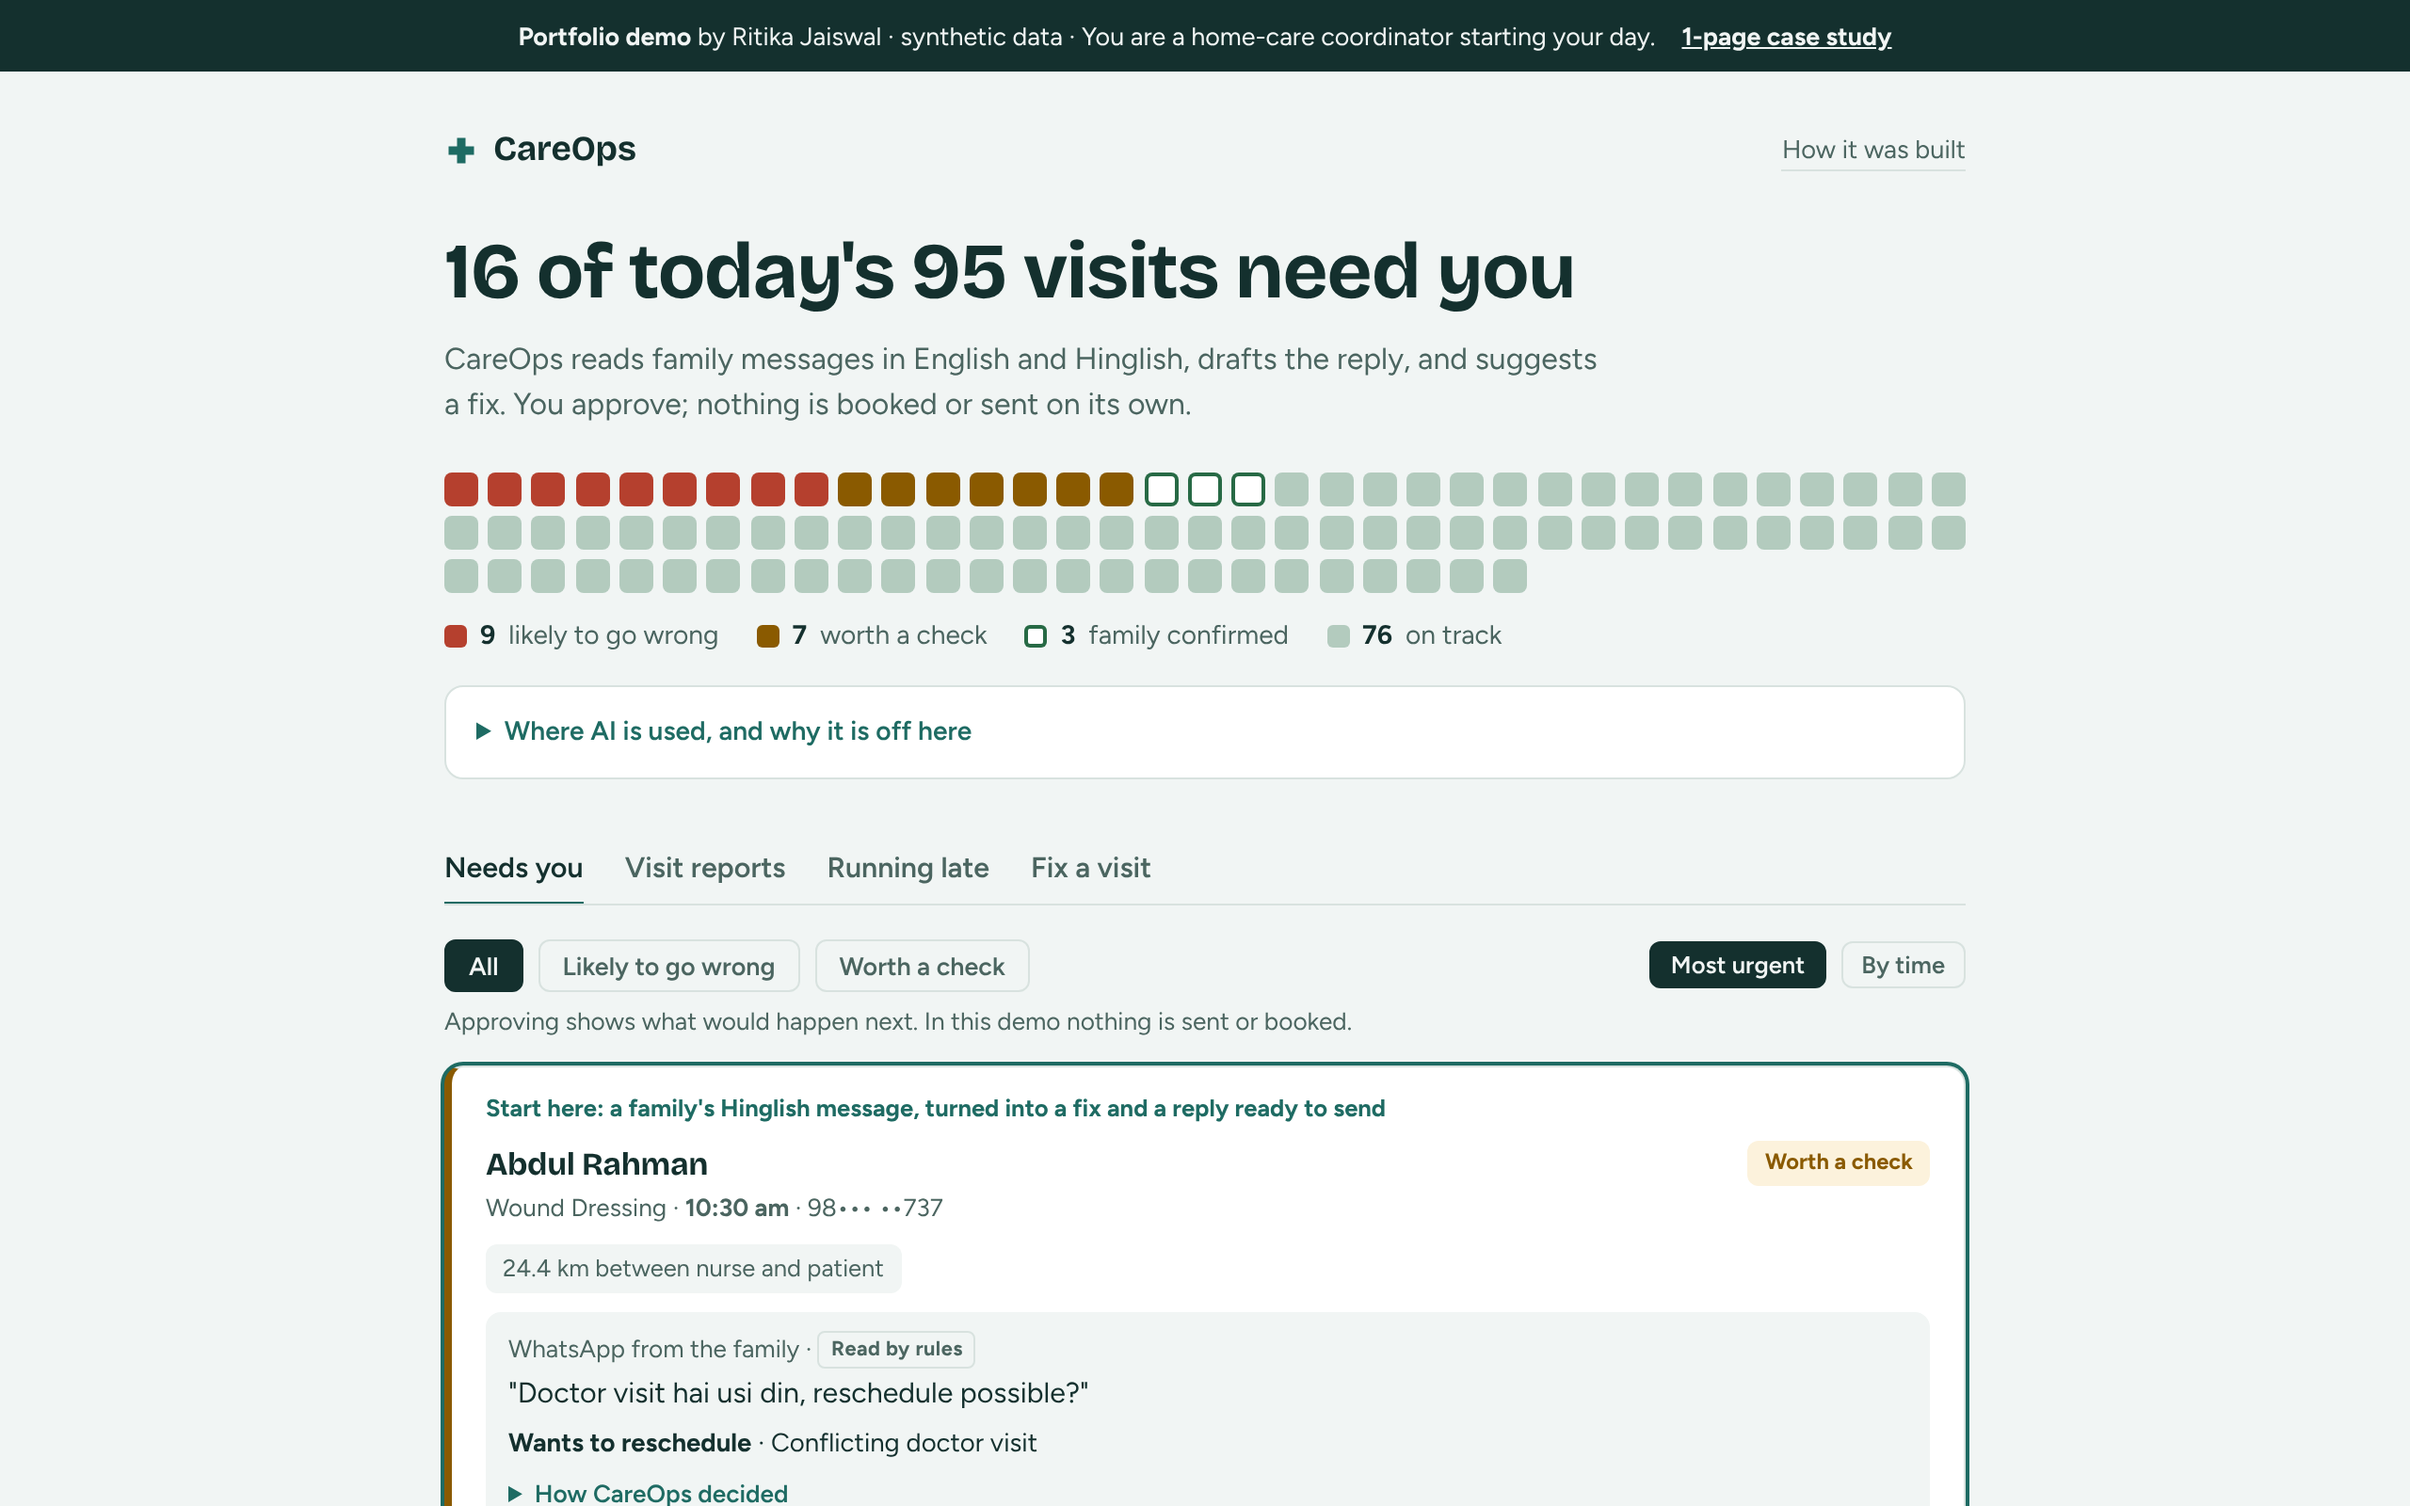
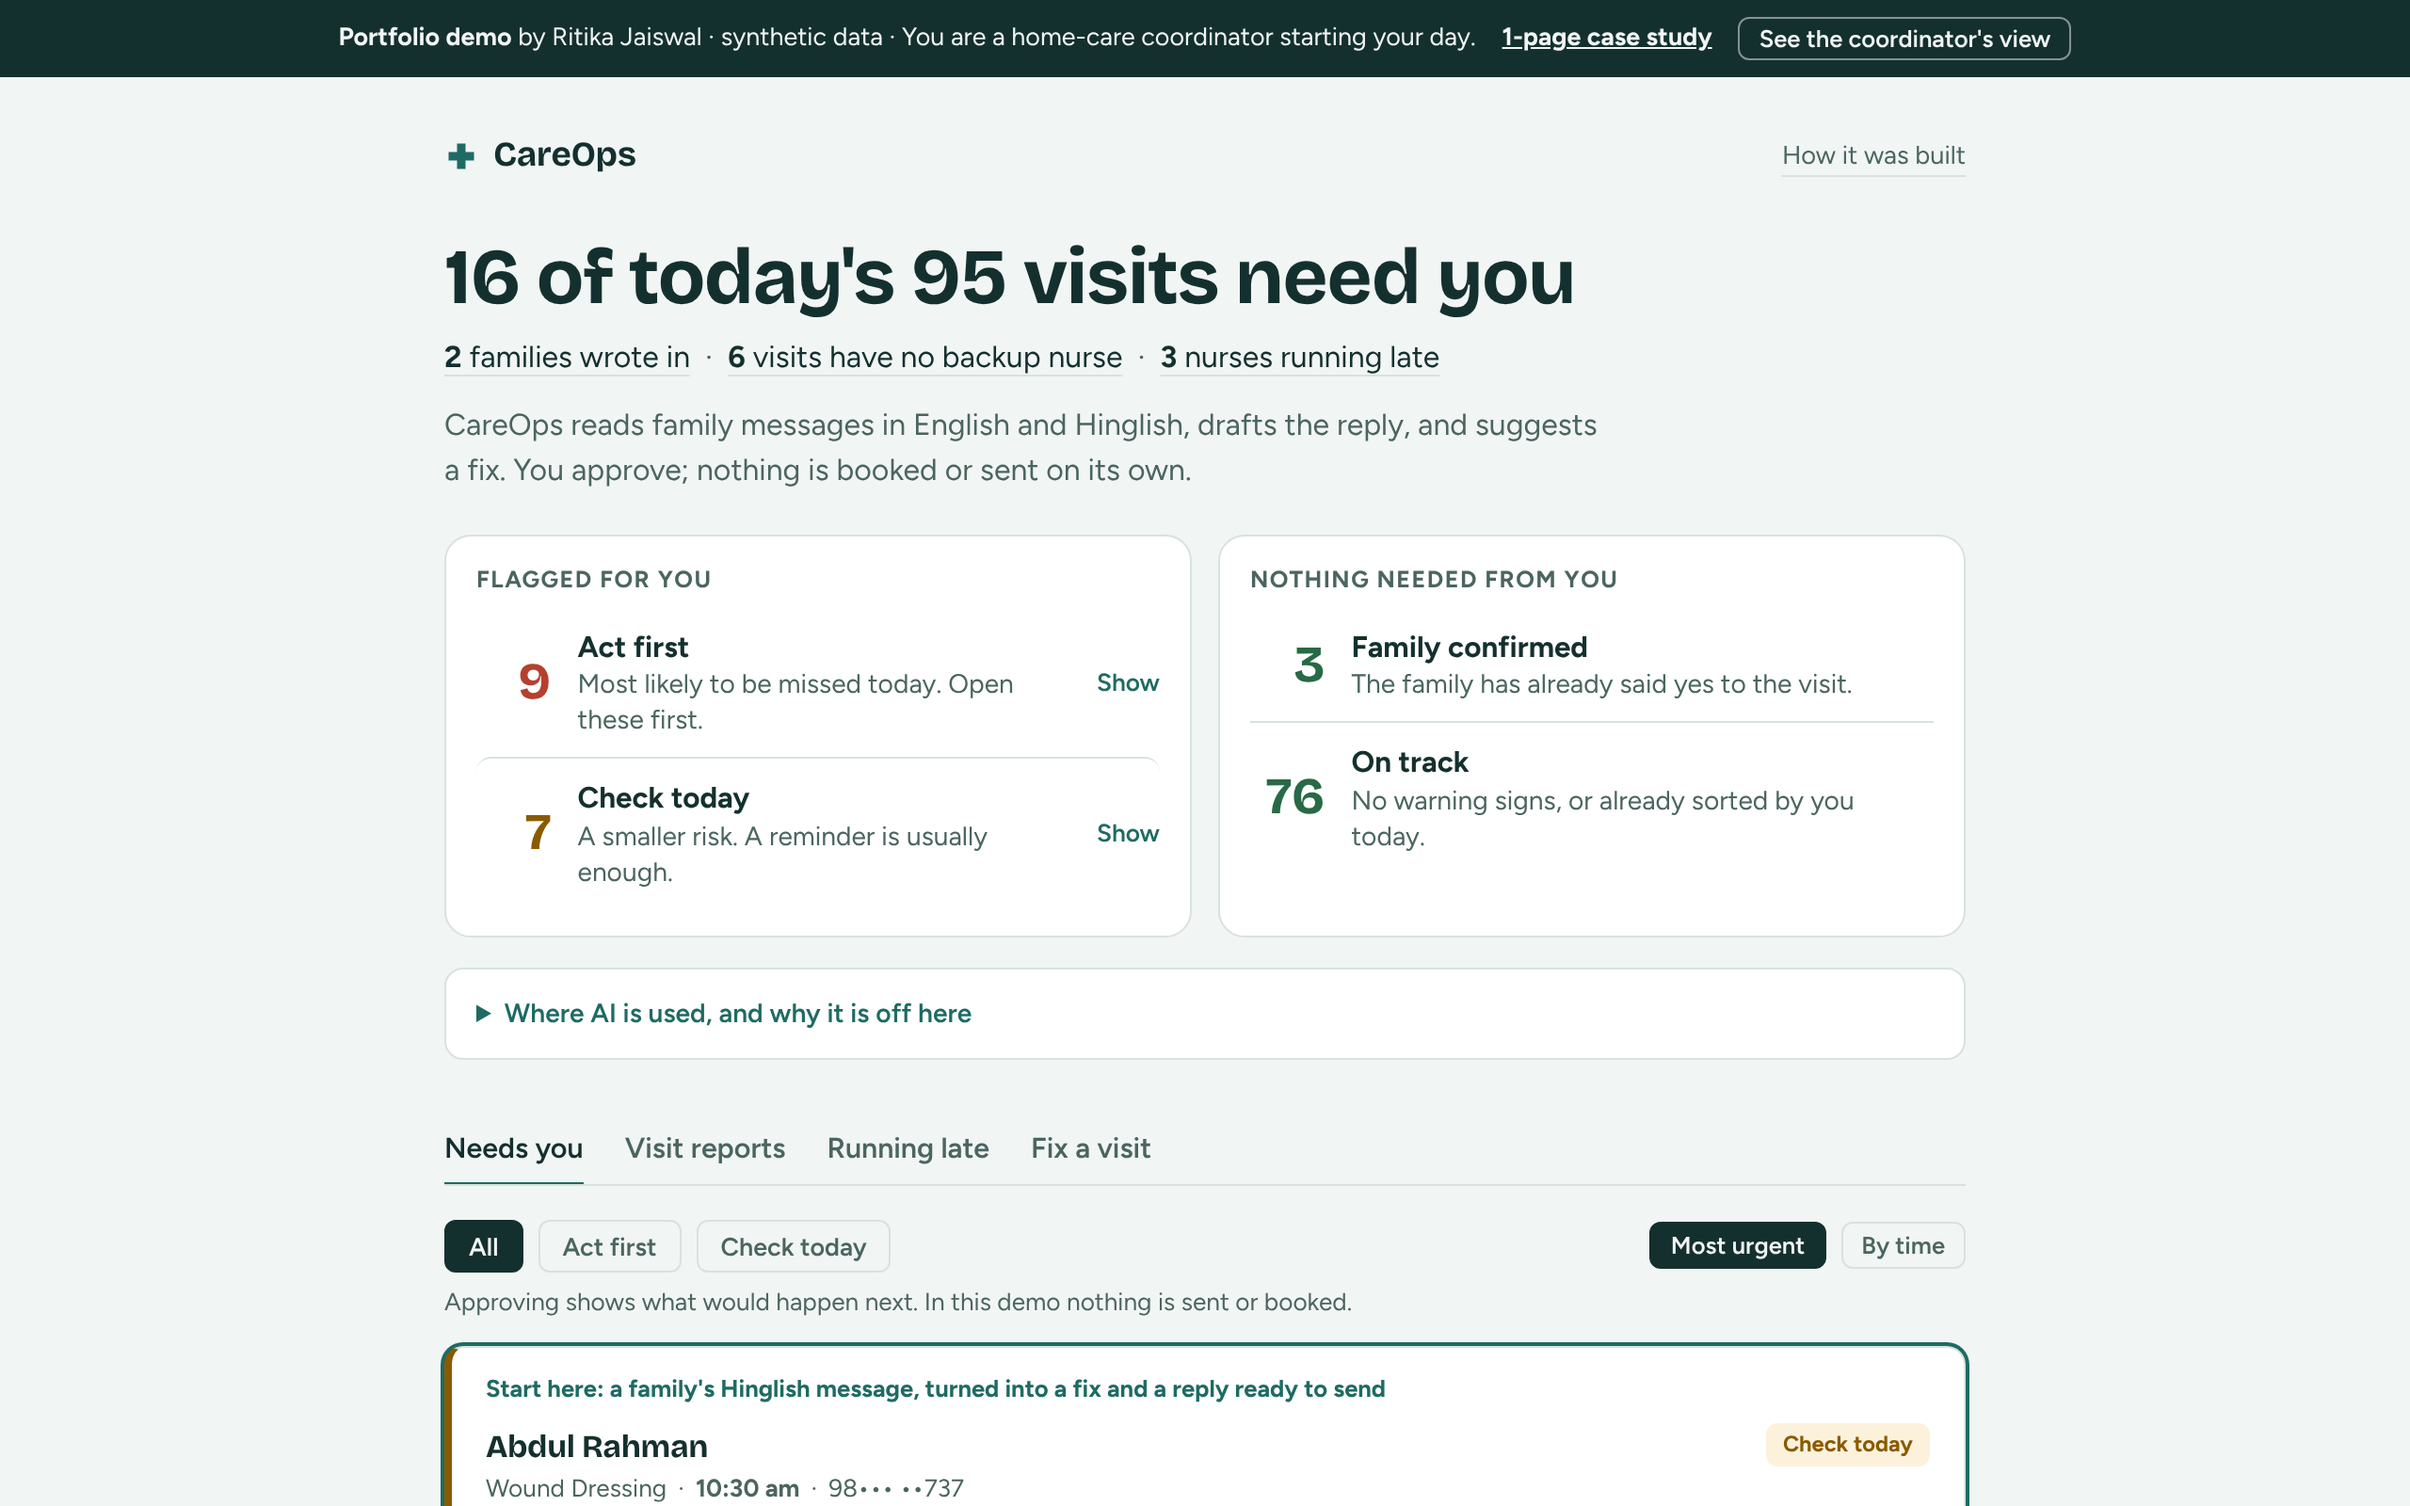
Replace the grid of squares with a plain summary
A coordinator shown the dashboard said the coloured squares were
confusing and that '9 likely to go wrong, 7 worth a check' did not say
what it meant for her. The header is now two groups, 'Flagged for you'
and 'Nothing needed from you', with four lines that each say what they
mean. The two flagged lines open those visits. Labels are renamed to
'Act first' and 'Check today' everywhere.

Claude-Session: https://claude.ai/code/session_01XTmb44TWyMkKZYWUqcZXxr

diff --git a/dashboard/styles.css b/dashboard/styles.css
@@ -38,18 +38,19 @@ button, select, input, textarea{font-family:inherit;}
 .brand a:hover{color:var(--ink); border-color:var(--ink);}
 .hero h1{font-family:var(--display); font-weight:700; font-size:clamp(1.7rem, 4.6vw, 2.6rem); line-height:1.08; letter-spacing:-.02em; margin:0 0 12px; max-width:22ch;}
 .hero p{margin:0; color:var(--sub); font-size:1rem; max-width:60ch;}
-.board{margin:24px 0 8px; display:grid; grid-template-columns:repeat(auto-fill, minmax(18px, 1fr)); gap:5px; max-width:840px;}
-.board i{display:block; aspect-ratio:1; border-radius:4px; background:var(--line);}
-.board i.ok{background:color-mix(in srgb, var(--ok) 35%, var(--card));}
-.board i.med{background:var(--med);}
-.board i.high{background:var(--high);}
-.board.animate i{animation:pop .35s ease-out both;}
-@keyframes pop{from{transform:scale(.3); opacity:0;} to{transform:scale(1); opacity:1;}}
-@media (prefers-reduced-motion: reduce){ .board.animate i{animation:none;} }
-.legend{display:flex; flex-wrap:wrap; gap:6px 20px; margin:12px 0 30px; font-size:.88rem; color:var(--sub);}
-.legend span{display:inline-flex; align-items:center; gap:7px;}
-.legend b{color:var(--ink); font-weight:700;}
-.legend i{width:12px; height:12px; border-radius:3px; display:inline-block;}
+.summary{display:grid; grid-template-columns:1fr 1fr; gap:14px; margin:22px 0 30px; max-width:900px;}
+.sum-group{background:var(--card); border:1px solid var(--line); border-radius:14px; padding:14px 16px;}
+.sum-head{font-size:.78rem; font-weight:700; letter-spacing:.06em; text-transform:uppercase; color:var(--sub); margin-bottom:6px;}
+.sum-row{display:flex; align-items:center; gap:14px; width:100%; padding:10px 0; border:0; border-top:1px solid var(--line); background:none; color:var(--ink); font:inherit; text-align:left;}
+.sum-head + .sum-row{border-top:0;}
+.sum-row b{font-family:var(--display); font-size:1.7rem; font-weight:700; min-width:2.2ch; text-align:right; line-height:1;}
+.sum-row.high b{color:var(--high);} .sum-row.med b{color:var(--med);} .sum-row.conf b, .sum-row.ok b{color:var(--ok);}
+.sum-row span{flex:1; font-size:.88rem; color:var(--sub); line-height:1.35;}
+.sum-row strong{display:block; color:var(--ink); font-size:.98rem;}
+.sum-row em{font-style:normal; font-size:.82rem; font-weight:600; color:var(--accent);}
+button.sum-row{cursor:pointer; border-radius:8px;}
+button.sum-row:hover strong{text-decoration:underline;}
+@media (max-width:700px){ .summary{grid-template-columns:1fr;} }
 
 /* Views */
 .tabs{display:flex; gap:22px; margin-bottom:18px; overflow-x:auto; border-bottom:1px solid var(--line); scrollbar-width:none;}
@@ -121,8 +122,6 @@ button.approve.warn{background:var(--high-bg); color:var(--high);}
 .confirmed-group{margin-top:14px; border:1px solid var(--line); border-radius:10px; background:var(--card); padding:4px 16px;}
 .confirmed-group summary{cursor:pointer; padding:10px 0; font-weight:600; font-size:.9rem;}
 .conf-row{display:flex; justify-content:space-between; align-items:center; gap:10px; padding:10px 0; border-top:1px dashed var(--line); font-size:.88rem;}
-.board i.conf{background:var(--card); box-shadow:inset 0 0 0 2px var(--ok);}
-.legend i.conf-key{background:var(--card); box-shadow:inset 0 0 0 2px var(--ok);}
 .result.ok{border-color:var(--ok);}
 .result.warn{border-color:var(--med);}
 .alt{padding:8px 0; border-top:1px solid var(--line);}
@@ -159,7 +158,6 @@ button.approve.warn{background:var(--high-bg); color:var(--high);}
 .footer{margin-top:40px; color:var(--sub); font-size:.8rem;}
 @media (max-width:560px){
   .wrap{padding:20px 16px 48px;}
-  .board{grid-template-columns:repeat(auto-fill, minmax(14px, 1fr)); gap:4px;}
   .action-main{flex-direction:column; align-items:stretch;}
   .btns{justify-content:stretch;} .btns button{flex:1;}
   #view-tabs{flex-wrap:wrap; gap:2px 18px;}
@@ -224,3 +222,5 @@ body.operator .operator-only{display:inline;}
 .group-head{font-weight:700; font-size:.86rem; color:var(--sub); margin:22px 0 10px; padding-top:14px; border-top:1px solid var(--line);}
 .today-wait{color:var(--med);}
 .today-wait::after{content:"·"; margin-left:8px; color:var(--sub);}
+
+@media (max-width:700px){ .today-line .dot-sep{display:none;} .today-line .today-chip{display:block; margin-bottom:6px;} }

diff --git a/dashboard/app.js b/dashboard/app.js
@@ -375,7 +375,7 @@ let currentSort = 'risk';
 
 function visitCard(v, startHere){
   const pct = Math.round(v.risk * 100);
-  const label = v.tier === 'High' ? 'Likely to go wrong' : 'Worth a check';
+  const label = v.tier === 'High' ? 'Act first' : 'Check today';
   const time = visitTime(v.id, v.time);
   const sig = v.patientSignal;
   return `
@@ -963,7 +963,7 @@ function renderIncidentSummary(){
         <div style="font-weight:700;">${escapeHtml(patientName(visit.id))}</div>
         <div class="meta" style="margin-top:3px;">${escapeHtml(visit.service)} · ${escapeHtml(visitTime(visit.id, visit.time))} · ${escapeHtml(phoneFor(visit.id))}</div>
       </div>
-      <span class="badge ${escapeHtml(visit.tier)}">${visit.tier === 'High' ? 'Likely to go wrong' : 'Worth a check'}</span>
+      <span class="badge ${escapeHtml(visit.tier)}">${visit.tier === 'High' ? 'Act first' : 'Check today'}</span>
     </div>
     <div class="meta" style="margin-top:9px;"><b>Reported:</b> the assigned nurse can't make it.</div>`;
 }
@@ -1144,16 +1144,22 @@ function renderSummary(){
   const ok = Math.max(0, total - high - med - conf - done) + done;
   const todoN = open.filter(v => !isWaiting(v)).length;
   document.getElementById('hero-title').textContent = `${todoN} of today's ${total} visits need you`;
-  const board = document.getElementById('board');
-  const marks = [...Array(high).fill('high'), ...Array(med).fill('med'), ...Array(conf).fill('conf'), ...Array(ok).fill('ok')];
-  board.innerHTML = marks.map((c, i) => `<i class="${c}" style="animation-delay:${Math.min(i * 12, 900)}ms"></i>`).join('');
-  if(!board.dataset.drawn){ board.classList.add('animate'); board.dataset.drawn = '1'; } else board.classList.remove('animate');
-  board.setAttribute('aria-label', `${high} likely to go wrong, ${med} worth a check, ${conf} already confirmed, ${ok} on track, out of ${total} visits`);
-  document.getElementById('legend').innerHTML = `
-    <span><i style="background:var(--high)"></i><b>${high}</b> likely to go wrong</span>
-    <span><i style="background:var(--med)"></i><b>${med}</b> worth a check</span>
-    <span><i class="conf-key"></i><b>${conf}</b> family confirmed</span>
-    <span><i style="background:color-mix(in srgb, var(--ok) 35%, var(--card))"></i><b>${ok}</b> on track</span>`;
+  // A coordinator found the grid of squares and its legend confusing, so the day is now four plain
+  // lines in two groups: what needs her, and what does not, each saying what it means.
+  const row = (n, cls, title, text, filter) => filter && n
+    ? `<button type="button" class="sum-row ${cls}" onclick="applyFilter('${filter}')"><b>${n}</b><span><strong>${title}</strong>${text}</span><em>Show</em></button>`
+    : `<div class="sum-row ${cls}"><b>${n}</b><span><strong>${title}</strong>${text}</span></div>`;
+  document.getElementById('summary').innerHTML = `
+    <div class="sum-group">
+      <div class="sum-head">Flagged for you</div>
+      ${row(high, 'high', 'Act first', 'Most likely to be missed today. Open these first.', 'High')}
+      ${row(med, 'med', 'Check today', 'A smaller risk. A reminder is usually enough.', 'Medium')}
+    </div>
+    <div class="sum-group">
+      <div class="sum-head">Nothing needed from you</div>
+      ${row(conf, 'conf', 'Family confirmed', 'The family has already said yes to the visit.')}
+      ${row(ok, 'ok', 'On track', 'No warning signs, or already sorted by you today.')}
+    </div>`;
 }
 
 initOperatorView();

diff --git a/dashboard/index.html b/dashboard/index.html
@@ -30,14 +30,13 @@
     <h1 id="hero-title">Today's home visits</h1>
     <p class="today-line" id="today-line"></p>
     <p class="visitor pitch">CareOps reads family messages in English and Hinglish, drafts the reply, and suggests a fix. You approve; nothing is booked or sent on its own.</p>
-    <div class="board" id="board" role="img" aria-label="Today's visits"></div>
-    <div class="legend" id="legend"></div>
+    <div class="summary" id="summary"></div>
     <details class="ai-box visitor">
       <summary>Where AI is used, and why it is off here</summary>
       <ul>
         <li><span class="tag ai">AI</span> <b>Visit reports:</b> an LLM (gpt-oss-120b) turns a caregiver's note into a report and a family update. Checks after the AI decide what is trusted.</li>
         <li><span class="tag ai">AI</span> <b>Family messages:</b> rules read them first; an LLM is asked only when the rules can't decide. Every message on today's list was read by rules.</li>
-        <li><span class="tag rules">Model</span> <b>"Likely to go wrong":</b> a simple statistical model (logistic regression), not generative AI.</li>
+        <li><span class="tag rules">Model</span> <b>"Act first" and "Check today":</b> a simple statistical model (logistic regression), not generative AI.</li>
         <li><span class="tag rules">Rules</span> <b>Replacement nurse:</b> hard eligibility checks, then a weighted score with reasons.</li>
         <li><span class="tag rules">Template</span> <b>Messages to families:</b> fixed templates you edit, so the wording is predictable.</li>
       </ul>
@@ -56,8 +55,8 @@
     <div class="toolbar">
       <div class="tabs filters" role="group" aria-label="Filter">
         <button type="button" class="tab active" aria-pressed="true" data-f="all">All</button>
-        <button type="button" class="tab" aria-pressed="false" data-f="High">Likely to go wrong</button>
-        <button type="button" class="tab" aria-pressed="false" data-f="Medium">Worth a check</button>
+        <button type="button" class="tab" aria-pressed="false" data-f="High">Act first</button>
+        <button type="button" class="tab" aria-pressed="false" data-f="Medium">Check today</button>
       </div>
       <div class="tabs filters sort" role="group" aria-label="Sort">
         <button type="button" class="tab active" aria-pressed="true" data-s="risk">Most urgent</button>
@@ -75,7 +74,7 @@
 
     <details class="note about">
       <summary>About the risk model and its known limitation</summary>
-      The list is sized to what one coordinator can review in a day: the riskiest 10% of visits are "Likely to go wrong" and the next 10% "Worth a check". The risk score is a simple statistical model (ROC-AUC 0.58), so it is a "look here first" helper, not a verdict.<br><br>
+      The list is sized to what one coordinator can review in a day: the riskiest 10% of visits are marked "Act first" and the next 10% "Check today". The risk score is a simple statistical model (ROC-AUC 0.58), so it is a "look here first" helper, not a verdict.<br><br>
       <b>Known limitation:</b> for first-time patients the model predicts more risk than actually happens (25.6% predicted, 17.0% observed), so its scores for them should be recalibrated before any real use.
     </details>
   </div>

diff --git a/docs/USER_TESTING.md b/docs/USER_TESTING.md
@@ -21,7 +21,7 @@ Ask them to think aloud. Don't help unless they are stuck for more than a minute
 
 | # | Task | Watch for |
 |---|---|---|
-| 1 | "Open the page. Which visits would you look at first, and why?" | Do they understand "Likely to go wrong" and the reasons? |
+| 1 | "Open the page. Which visits would you look at first, and why?" | Do they understand "Act first" and the reasons? |
 | 2 | "Find the family who wants to reschedule. What would you do?" | Do they trust the proposed day? Would they send the drafted message as is? |
 | 3 | "Open Running late. What would you do first?" | Is "Family not told yet" the right alarm? |
 | 4 | "Open Fix a visit. A nurse has dropped out. Find a replacement." | Do the reasons match how they choose? Do they ask to fix all of one nurse's visits at once? |
